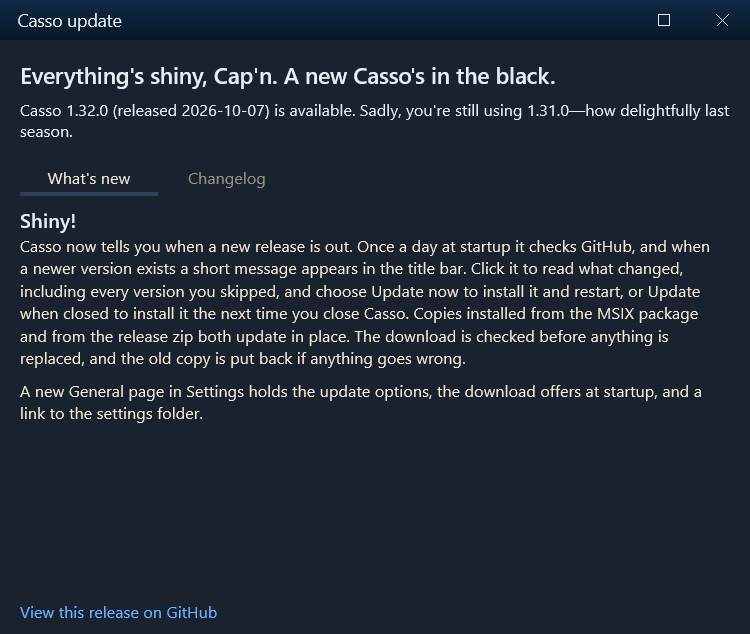
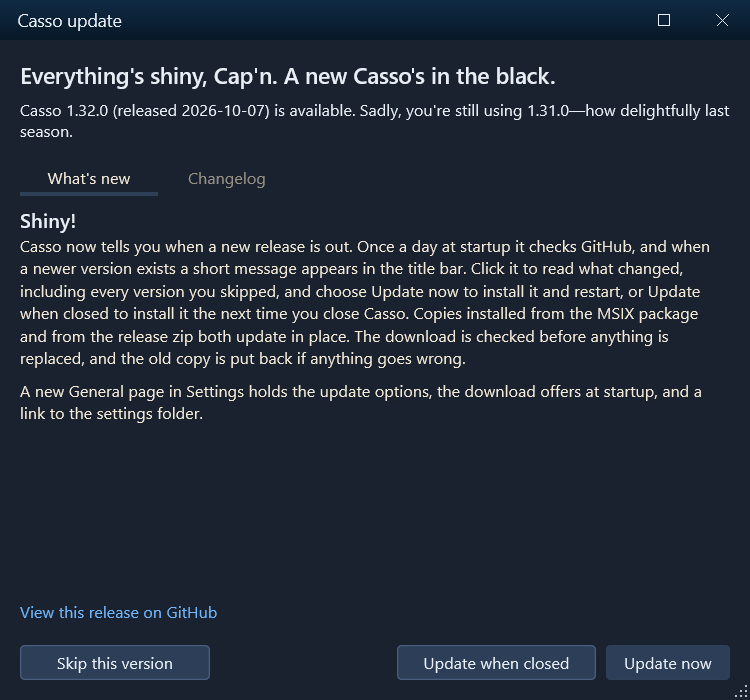
docs(release): Show the update buttons in the 1.32 dialog screenshot

diff --git a/README.md b/README.md
@@ -95,7 +95,7 @@ startup, and a link to the settings folder.
   <td valign="top" width="100%" align="center"><img src="Assets/update-1-32-indicator.png" alt="The right end of Casso's title bar: a download arrow and the words 1.32.0 is calling, in blue, beside the minimize, maximize and close buttons" width="790" /><br /><sub>The title bar when a new release is out</sub></td>
 </tr>
 <tr>
-  <td valign="top" width="100%" align="center"><img src="Assets/update-1-32-dialog.png" alt="The Casso update dialog on its What's new tab: the heading Everything's shiny, Cap'n. A new Casso's in the black, the line Casso 1.32.0 (released 2026-10-07) is available, and the 1.32 highlight, with a link to the release on GitHub" width="600" /><br /><sub>What's new since the version running</sub></td>
+  <td valign="top" width="100%" align="center"><img src="Assets/update-1-32-dialog.png" alt="The Casso update dialog on its What's new tab: the heading Everything's shiny, Cap'n. A new Casso's in the black, the line Casso 1.32.0 (released 2026-10-07) is available, and the 1.32 highlight, with a link to the release on GitHub and the Skip this version, Update when closed and Update now buttons" width="600" /><br /><sub>What's new since the version running</sub></td>
 </tr>
 </table>
 
